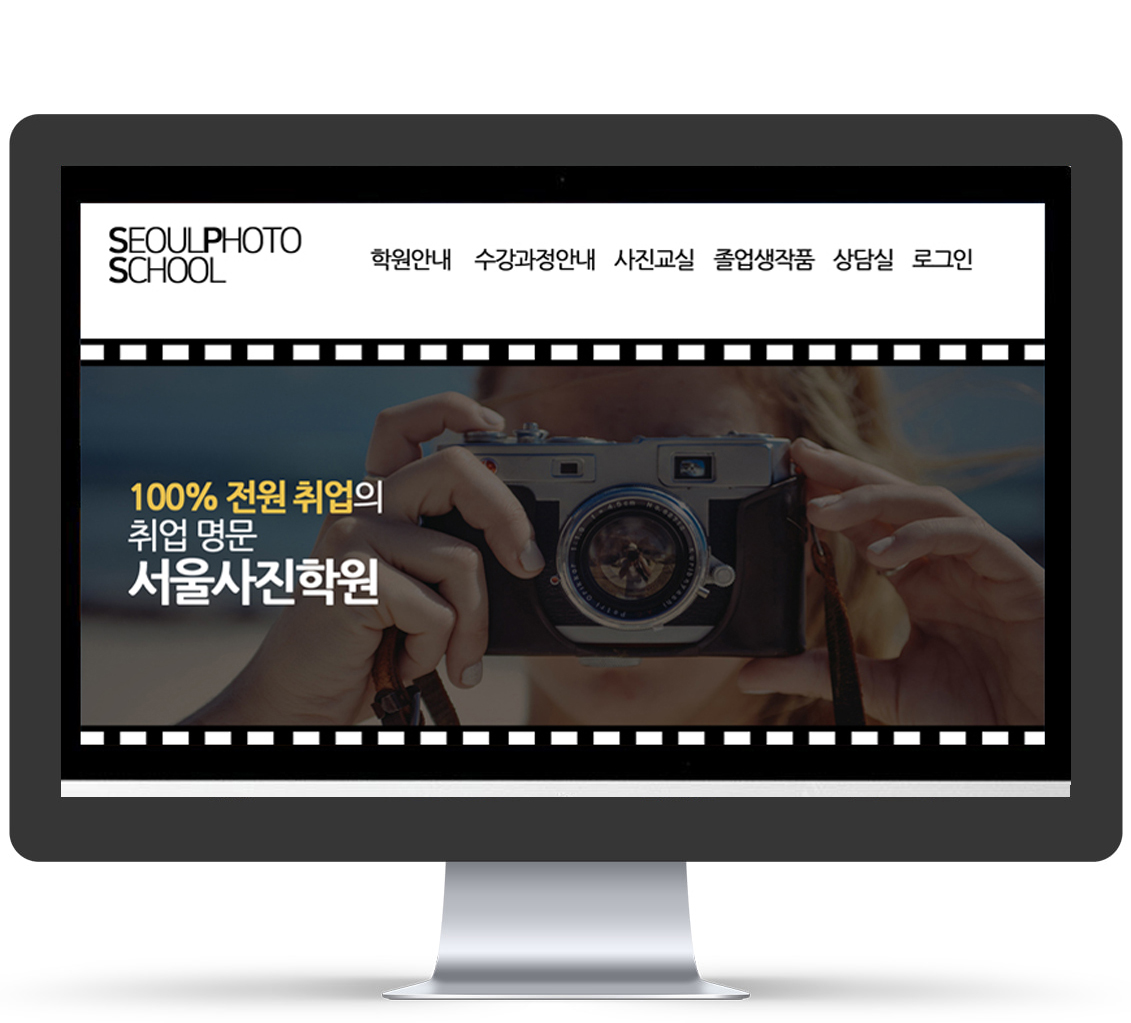
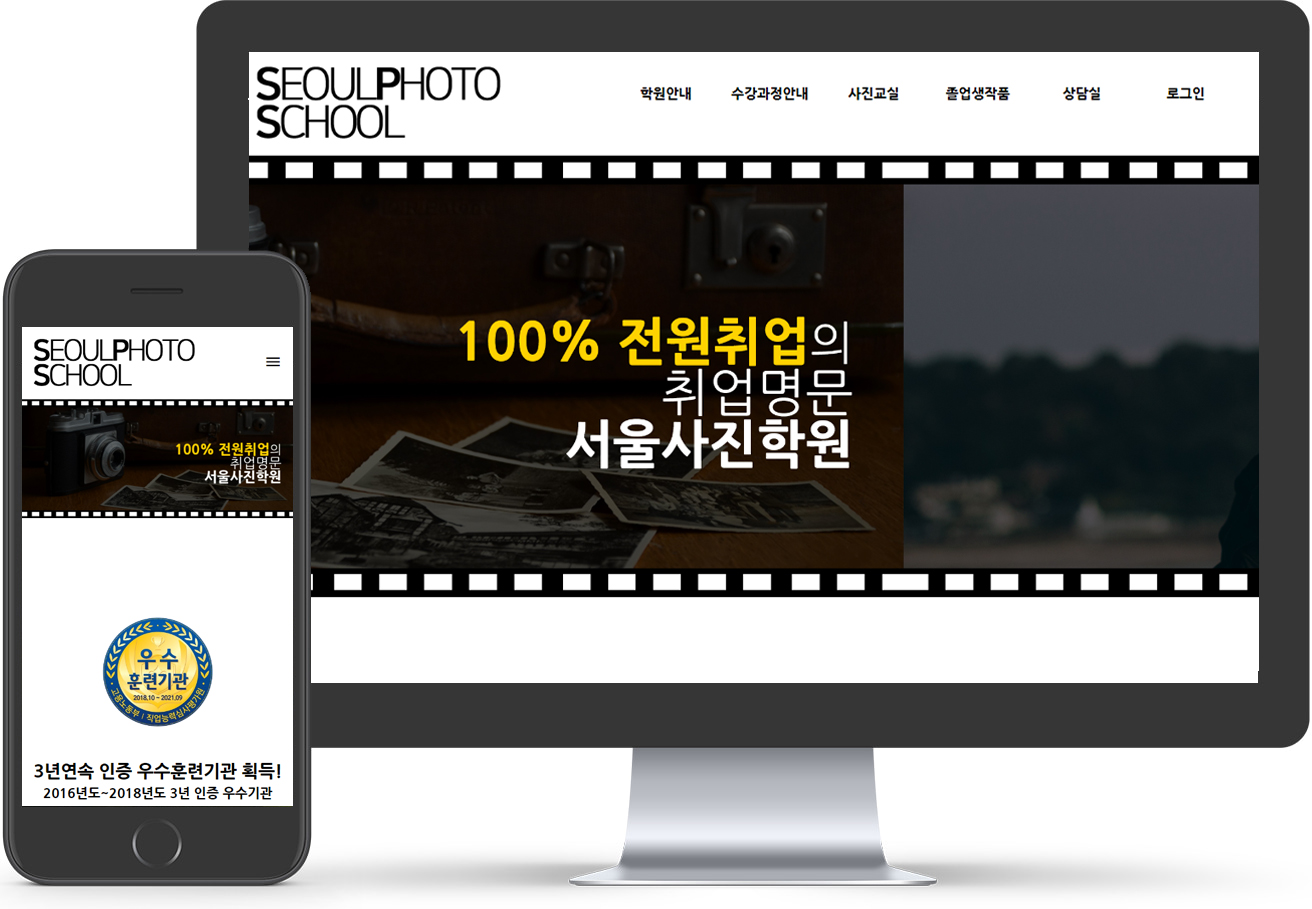
Add files via upload

diff --git a/index.html b/index.html
@@ -90,7 +90,7 @@
 				<ul>
 					<li>
 						<b>사이트명</b>
-						<span>서울 사진 학원</span>
+						<span>서울 사진 학원 (반응형)</span>
 					</li>						
 					<li>
 						<b>제작기간</b>
@@ -106,11 +106,12 @@
 					</li>
 					<li>
 						<b>컨셉설명</b>
-						<span>기존 웹사이트는 플래쉬를 이용한 사이트로 좁은 여백에 정보의 중요도가 구분되지 않았습니다. 때문에, 정보의 중요도를 나누고 여백을 주어 정보에 집중 할 수 있도록 메인페이지를 구성하였습니다.</span><br>					
+						<span>기존 웹사이트는 플래쉬를 이용한 사이트로 좁은 여백에 정보의 중요도가 구분되지 않았기 때문에, 정보의 중요도를 나누고 여백을 주어 정보에 집중 할 수 있도록 메인페이지를 구성하였습니다.</span><br>					
 					</li>					
 				</ul>
 				<a href="plan/seoul/index.html" target="_blank">리뉴얼 기획서</a>
 				<a href="https://chy8115.cafe24.com/web/seoul/index.html" target="_blank">웹사이트 바로가기</a>
+				<a href="https://chy8115.cafe24.com/web/seoul/index.html" onclick="window.open(this.href, 'win1', 'top=50, left=200 , width=414, height=736, toolbar=yes, scrollbars=no, resizable=yes'); return false;"   onkeypress="this.onclick()">모바일앱 바로가기</a>
 			</div>
 			<div>
 				<img src="images/portfolio-1.jpg" alt="포트폴리오 서울사진학원">

diff --git a/css/portfolio.css b/css/portfolio.css
@@ -83,19 +83,20 @@ h2 {text-align:center; font-size:3rem; margin-bottom:60pt; color:black;}
 #portfolio div {line-height:270%;}
 #portfolio h3 {font-size:2.3rem; padding-bottom:20pt;}
 #portfolio div:first-child {padding-right:30pt;}
+
 #portfolio ul {list-style:none; margin-bottom:25pt;}
 #portfolio li {display:flex;}
 #portfolio b  {min-width:60pt;}
 #portfolio span {line-height:180%; text-align:justify;}
 #portfolio a   {padding:6pt 30pt; border-radius:20pt; border:1pt solid #ddd; color:black; font-size:1.rem; font-weight:500; transition:0.3s;}
-#portfolio a:first-of-type {margin-right:10pt;}
+#portfolio a {margin-right:5pt;}
 #portfolio a:hover {background:#555; color:white;}
 
 #seoul div:first-child {flex:1;}
-#seoul div:last-child {flex:1.5;} 
+#seoul div:last-child {flex:1.2;} 
 
 #candle div:first-child {flex:1;}
-#candle div:last-child {flex:1.5;}
+#candle div:last-child {flex:1.2;}
 
 
 /*Event and Detail*/

diff --git a/js/portfolio.js b/js/portfolio.js
@@ -40,7 +40,7 @@
 	});
 	
 	//상단 한글자씩 나오는 기능 (타자치는 효과)
-	const typing = "안녕하세요. \n최원영의 포트폴리오입니다."
+	const typing = "안녕하세요. \n귀사의 행운이 되고 싶은 \n최원영의 포트폴리오입니다."
 	console.log(typing);
 	//$("h1").html( typing[4]  );  "요"
 	let i = 0; 
